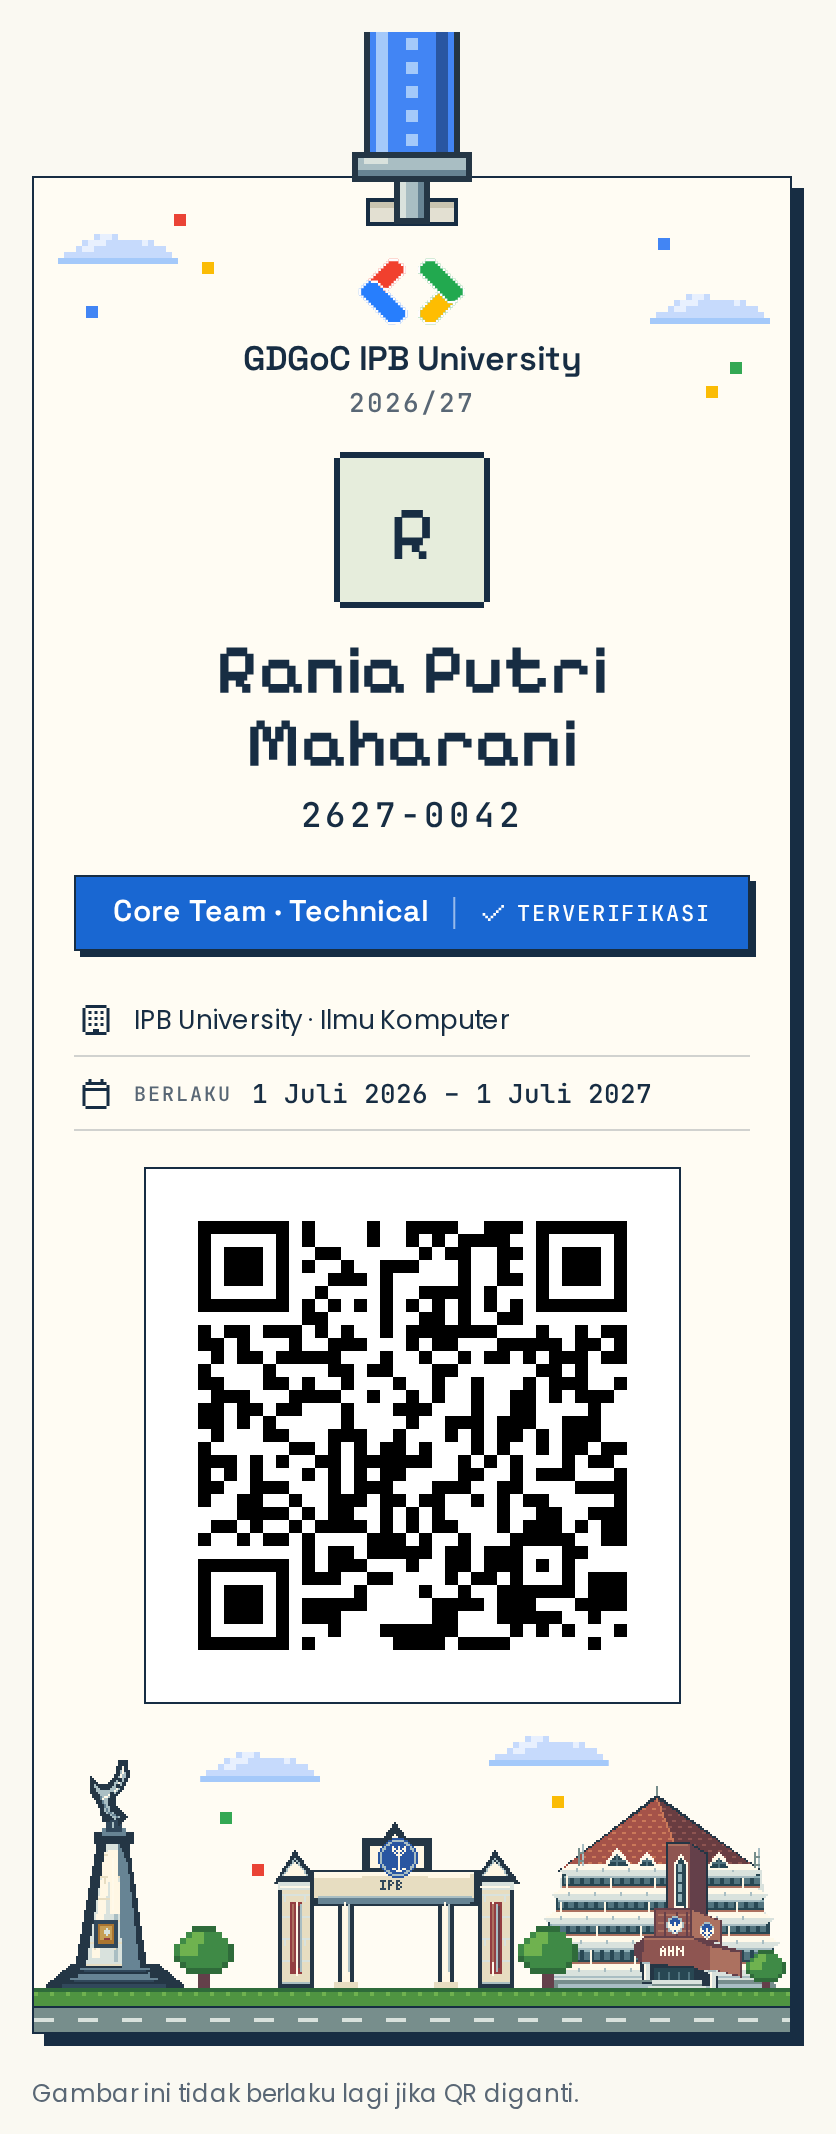
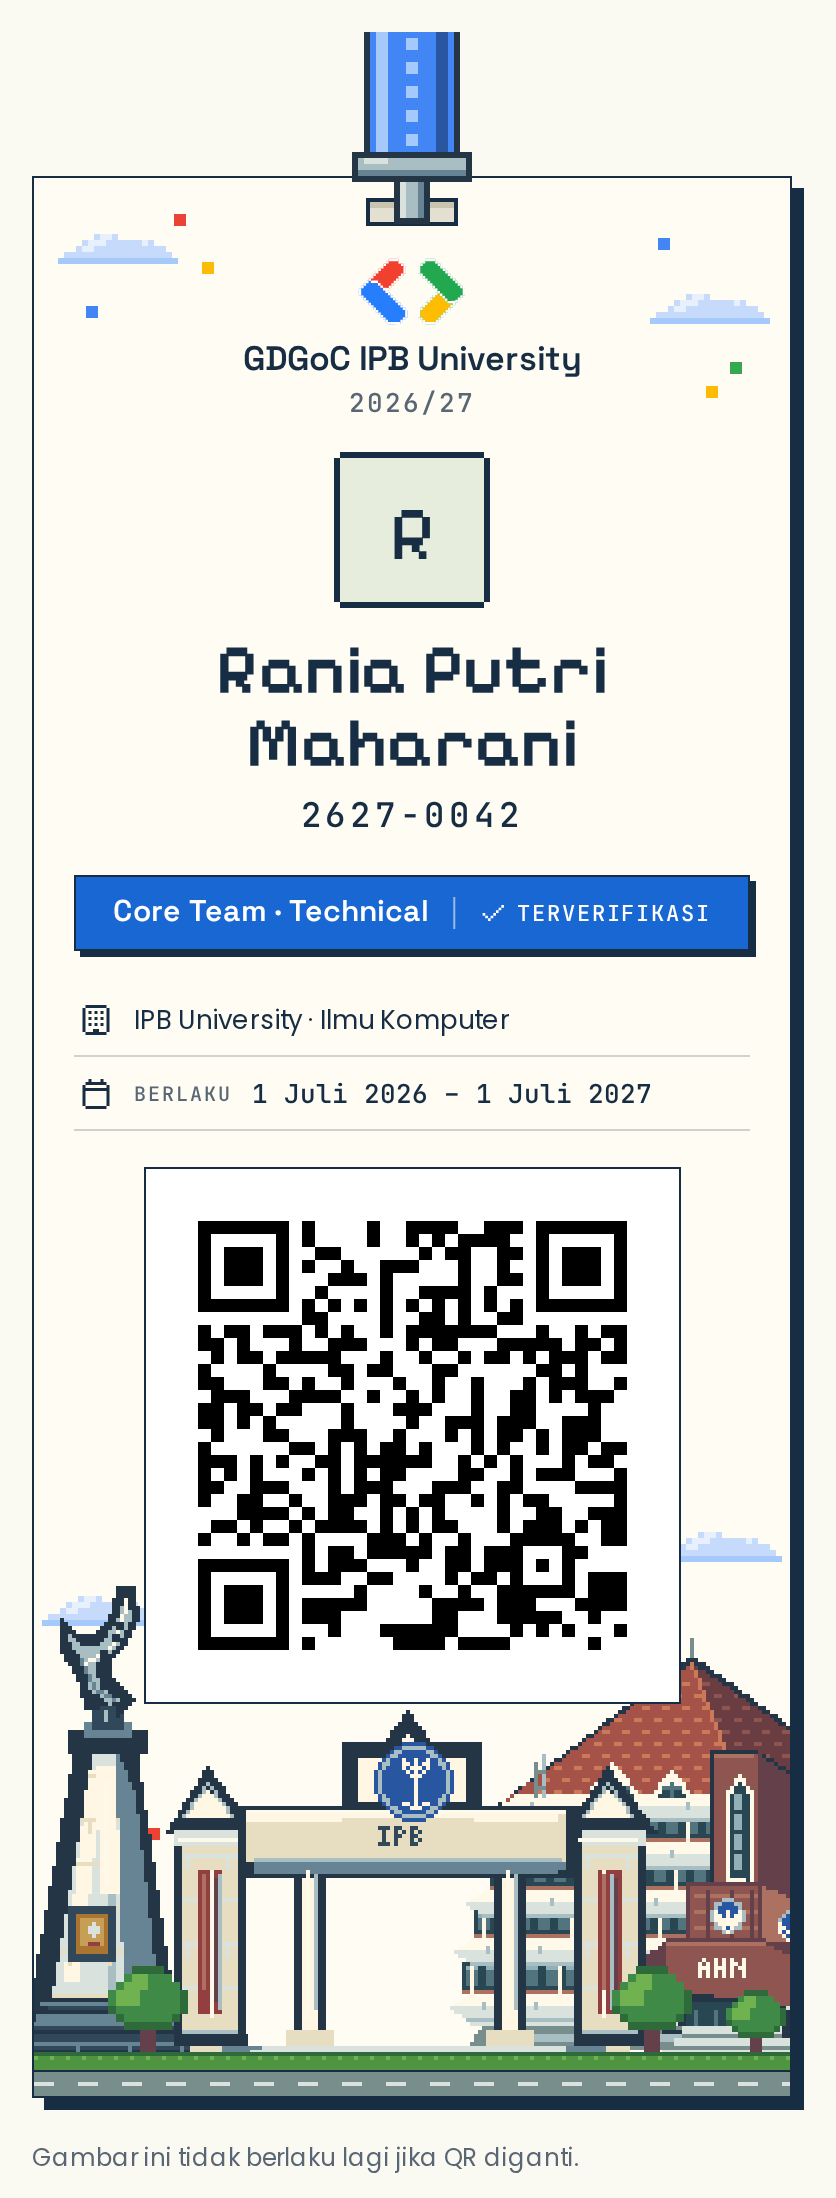
docs(evidence): larger-strip screenshots for #135

diff --git a/README.md b/README.md
@@ -39,4 +39,4 @@ Never force-push this branch, and never open a pull request from it.
 | --- | --- | --- |
 | `issue-132/sidebar` | #132 sidebar cut off on short windows | #133 |
 | `issue-135/direction-a` | #135 member card, campus credential attempt | #136 (superseded) |
-| `issue-135/lanyard-pass` | #135 member card, lanyard pass | pending |
+| `issue-135/lanyard-pass` | #135 member card, lanyard pass | #138, #140 |
